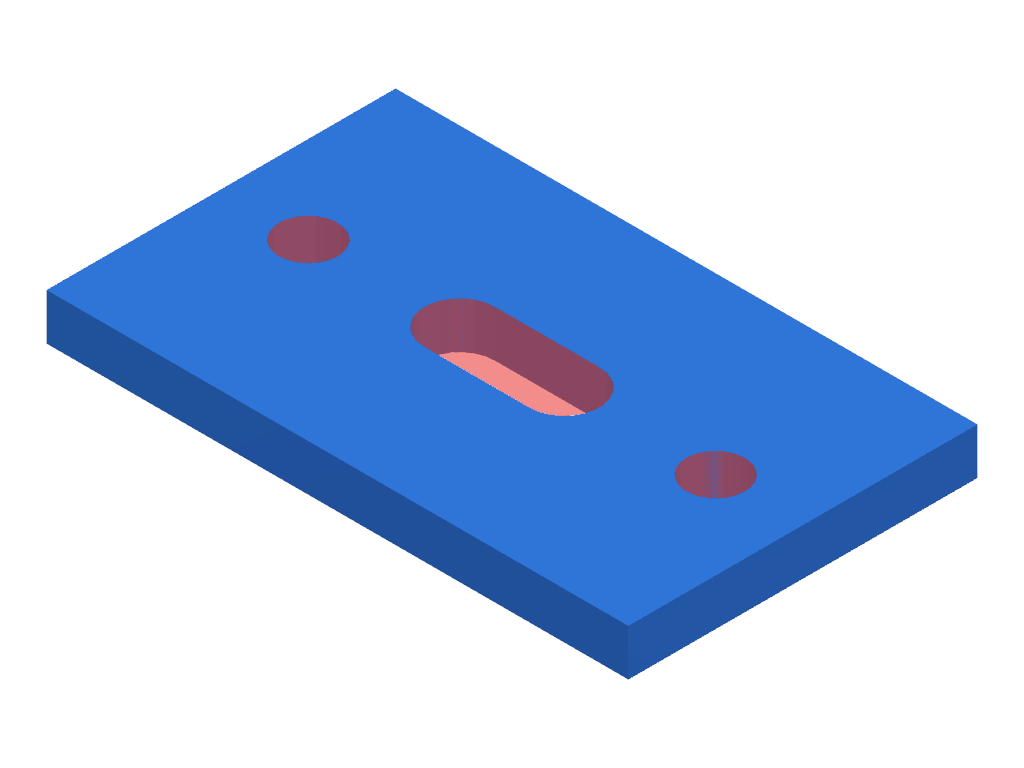
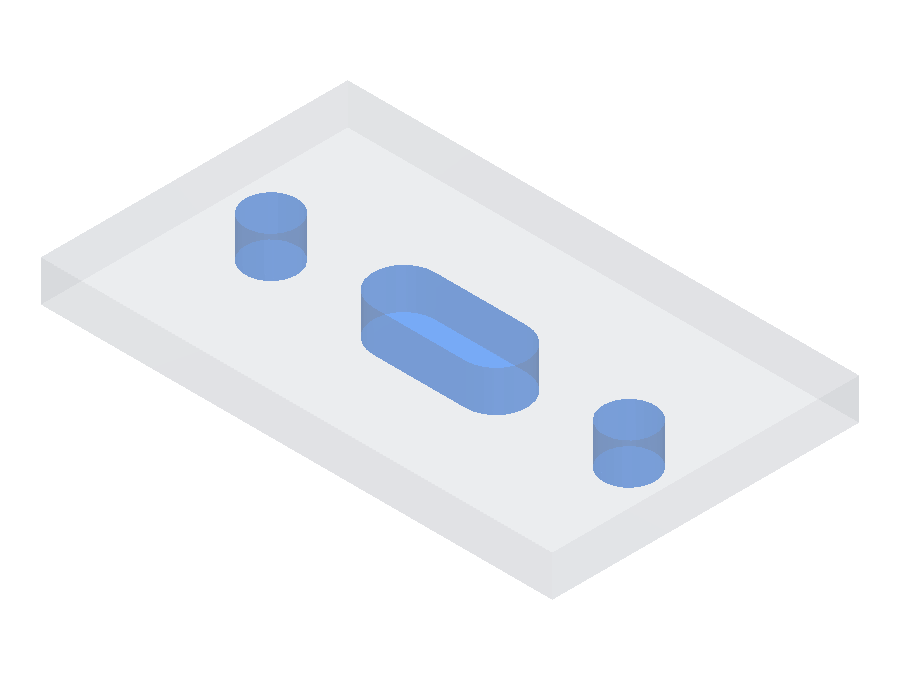
docs: clearer edit + concept illustrations, plainer wording
- edit-diff example: a feature moved clear of its old spot (two whole
  shapes) instead of an overlapping move that rendered as carved-open
  crescents.
- KIR fail: a missing boss (one clean amber hex) instead of the oversize
  cylinder whose thin overflow tessellated into jagged slivers.
- interface_concept: grey part with the regions in blue, matching the new
  palette (was the old blue-plate / red-regions figure).
- drop the lone em-dash and tighten the added prose.

diff --git a/docs/metrics/illustrations/generate.py b/docs/metrics/illustrations/generate.py
@@ -51,14 +51,17 @@ def _plain_iso(step: Path, dest: Path) -> None:
     print("wrote", dest.relative_to(REPO))
 
 
-def _overlay(test: str, candidate: str, dest: Path) -> None:
-    """Interface overlay (grey ghost / blue fits / red too-much / amber too-little)."""
+def _overlay_for_part(test: str, part_step: Path, dest: Path) -> None:
+    """Interface overlay of *part_step* against *test*'s GT + sub-volumes.
+
+    Colours: grey ghost / blue fits / red too-much / amber too-little.
+    """
     from cadgenbench.eval.interface_match import discover_sub_volumes
     from cadgenbench.eval.interface_match_viz import render_part_with_subvolumes
 
     d = FIX / test
     img = render_part_with_subvolumes(
-        d / "candidates" / f"{candidate}.step",
+        part_step,
         discover_sub_volumes(d),
         gt_step=d / "gt.step",
         views=("iso",),
@@ -68,6 +71,34 @@ def _overlay(test: str, candidate: str, dest: Path) -> None:
     dest.parent.mkdir(parents=True, exist_ok=True)
     dest.write_bytes(img.data)
     print("wrote", dest.relative_to(REPO))
+
+
+def _overlay(test: str, candidate: str, dest: Path) -> None:
+    """Overlay of a named ``candidates/<candidate>.step`` fixture."""
+    _overlay_for_part(test, FIX / test / "candidates" / f"{candidate}.step", dest)
+
+
+# L-bracket constants, mirroring tests/fixtures/jig_metric/generate.py, used to
+# author the "boss missing" KIR-fail candidate (no such fixture ships).
+_BR_FLOOR_LEN, _BR_FLOOR_W, _BR_T, _BR_WALL_H = 80.0, 60.0, 8.0, 70.0
+_BR_BOLTS = [(24.0, -15.0), (24.0, 15.0), (64.0, -15.0), (64.0, 15.0)]
+_BR_BOLT_DIA = 8.0
+
+
+def _bracket_without_boss():
+    """The test_3 bracket (floor + wall + bolt holes) with the boss left off."""
+    from build123d import Box, BuildPart, Cylinder, Locations, Mode
+
+    with BuildPart() as b:
+        with Locations((_BR_FLOOR_LEN / 2, 0.0, _BR_T / 2)):
+            Box(_BR_FLOOR_LEN, _BR_FLOOR_W, _BR_T)
+        wall_h = _BR_WALL_H - _BR_T
+        with Locations((_BR_T / 2, 0.0, _BR_T + wall_h / 2)):
+            Box(_BR_T, _BR_FLOOR_W, wall_h)
+        for hx, hy in _BR_BOLTS:
+            with Locations((hx, hy, _BR_T / 2)):
+                Cylinder(radius=_BR_BOLT_DIA / 2, height=_BR_T + 1.0, mode=Mode.SUBTRACT)
+    return b.part
 
 
 def _plate_with_boss(boss_xy: tuple[float, float]):
@@ -81,13 +112,14 @@ def _plate_with_boss(boss_xy: tuple[float, float]):
     return p.part
 
 
-def _edit_diff_small_move(dest: Path) -> None:
-    """Edit diff of a small feature moved a little: a boss nudged 6 mm.
+def _edit_diff_moved_feature(dest: Path) -> None:
+    """Edit diff of a small feature moved to a new position: a boss relocated.
 
-    GT boss at (-12, 0), candidate at (-6, 0). The move is small relative to
-    the part, so the diff is two localized crescents -- red where the moved
-    boss adds material, amber where the original boss is now missing -- which
-    reads far cleaner than a large symmetric edit.
+    GT boss at (-15, 0), candidate at (1, 0) -- moved far enough to fully clear
+    its old footprint. The diff colours only what changed, so a clean move
+    shows two whole shapes (no carved-open crescents): amber where the feature
+    used to be (now missing), red where it moved to (added). The move is still
+    small relative to the part.
     """
     from build123d import export_step
     from cadgenbench.common.artifacts import StepArtifacts
@@ -95,8 +127,8 @@ def _edit_diff_small_move(dest: Path) -> None:
 
     tmp = Path(tempfile.mkdtemp(prefix="cgb-docedit-"))
     gt_path, cand_path = tmp / "gt.step", tmp / "cand.step"
-    export_step(_plate_with_boss((-12.0, 0.0)), str(gt_path))
-    export_step(_plate_with_boss((-6.0, 0.0)), str(cand_path))
+    export_step(_plate_with_boss((-15.0, 0.0)), str(gt_path))
+    export_step(_plate_with_boss((1.0, 0.0)), str(cand_path))
 
     gt = StepArtifacts(gt_path)
     cand = StepArtifacts(cand_path, deflection_override=gt.deflection())
@@ -107,6 +139,11 @@ def _edit_diff_small_move(dest: Path) -> None:
 
 
 def main() -> None:
+    # interface_match.md concept image: the ground-truth plate with its three
+    # mating regions in blue (the regions the metric checks; the GT satisfies
+    # them, hence blue). Replaces the old blue-plate / red-regions figure.
+    _overlay("test_4", "correct", ILL / "interface_concept.png")
+
     # metrics.md Example 3: single-group plate (2 holes + central slot), slot
     # shifted. All three panels from one fixture so they stay consistent.
     ex3 = ILL / "example_3_interface"
@@ -122,10 +159,17 @@ def main() -> None:
     _overlay("test_1", "correct", ILL / "kor_fit.png")
     _overlay("test_1", "broken_3_no_hole", ILL / "kor_fail.png")
     _overlay("test_3", "correct", ILL / "kir_fit.png")
-    _overlay("test_3", "broken_1_cylinder_boss", ILL / "kir_fail.png")
+    # KIR fail = boss missing -> one clean amber hex (too little). Authored,
+    # since test_3 ships only oversize / rotated boss candidates, whose thin
+    # boolean overflow tessellates into jagged slivers.
+    from build123d import export_step
 
-    # metrics.md editing section: ghost-diff of a small feature moved a little.
-    _edit_diff_small_move(ILL / "example_editing" / "edit_diff.png")
+    noboss = Path(tempfile.mkdtemp(prefix="cgb-kir-")) / "bracket_no_boss.step"
+    export_step(_bracket_without_boss(), str(noboss))
+    _overlay_for_part("test_3", noboss, ILL / "kir_fail.png")
+
+    # metrics.md editing section: ghost-diff of a feature moved to a new spot.
+    _edit_diff_moved_feature(ILL / "example_editing" / "edit_diff.png")
 
 
 if __name__ == "__main__":

diff --git a/docs/metrics.md b/docs/metrics.md
@@ -160,11 +160,10 @@ the raw and renormalized shape values are saved under
 `result.json["edit_metrics"]`.
 
 In the per-fixture report an editing candidate is shown as a ghost-diff
-against the ground truth, so a small or internal change is visible where
-a plain render of a near-no-op looks identical to the GT. Red marks
-material the candidate added that the GT doesn't have (too much); amber
-marks GT material the candidate is missing (too little). A no-op lights
-up as the entire edit it skipped.
+against the ground truth, which makes a small or internal change visible.
+Red marks material the candidate added that the GT doesn't have (too
+much); amber marks GT material the candidate is missing (too little). A
+no-op shows up as the whole edit it skipped.
 
 ![Edit diff](./metrics/illustrations/example_editing/edit_diff.png)
 
@@ -238,12 +237,12 @@ whole interface score to `0.00`. The result is
 | :--: | :--: |
 | ![GT iso](./metrics/illustrations/example_3_interface/gt_iso.png) | ![Candidate iso](./metrics/illustrations/example_3_interface/candidate_iso.png) |
 
-The overlay makes it concrete: the candidate is the grey ghost, and each
-mating region is drawn **blue where it fits**, **red where the candidate
-has material it shouldn't** (too much), and **amber where it's missing
-material it should have** (too little). The two bolt holes are clear, so
-they read blue; the slot is shifted off its position, so the required
-opening is blocked (red) and the slot the candidate did cut sits where the
-plate should stay solid (amber).
+In the overlay, the candidate is the grey ghost and each mating region is
+**blue where it fits**, **red where the candidate has material it
+shouldn't** (too much), and **amber where it's missing material it should
+have** (too little). The two bolt holes are clear, so they read blue. The
+slot is shifted off its position, so the required opening is blocked (red)
+and the slot the candidate did cut sits where the plate should stay solid
+(amber).
 
 ![Interface overlay](./metrics/illustrations/example_3_interface/interface_overlay.png)

diff --git a/docs/metrics/interface_match.md b/docs/metrics/interface_match.md
@@ -35,7 +35,7 @@ The per-fixture report overlays the candidate (grey ghost) against each region: 
 | :--: | :--: |
 | ![KOR fits](illustrations/kor_fit.png) | ![KOR fails](illustrations/kor_fail.png) |
 
-Left: the candidate keeps the clearance empty, so the region is blue. Right: the candidate left material in the clearance (hole missing or too small), so it reads red — material where there should be none. A hole drilled *too big* shows the opposite: an amber ring where it has eaten into the plate that should stay solid.
+Left: the candidate keeps the clearance empty, so the region is blue. Right: the candidate left material in the clearance (hole missing or too small), so it reads red. A hole drilled too big shows the opposite: an amber ring where it has eaten into the plate that should stay solid.
 
 ### Keep-in (KIR): a locating boss
 
@@ -43,6 +43,6 @@ Left: the candidate keeps the clearance empty, so the region is blue. Right: the
 | :--: | :--: |
 | ![KIR fits](illustrations/kir_fit.png) | ![KIR fails](illustrations/kir_fail.png) |
 
-Left: the candidate fills the boss region, so it is blue (the four bolt-hole keep-outs around it are satisfied too). Right: the boss is oversize — a round boss where a hex is specified — so it bulges past the region into the surrounding clearance (red, too much material), while any corner of the hex it fails to fill reads amber.
+Left: the candidate fills the boss region, so it is blue (the four bolt-hole keep-outs around it are satisfied too). Right: the boss is missing, so the keep-in region the candidate should fill reads amber. An oversize boss shows the opposite, red where it spills past the region into the surrounding clearance.
 
 Code: [`interface_match.py`](../../src/cadgenbench/eval/interface_match.py)